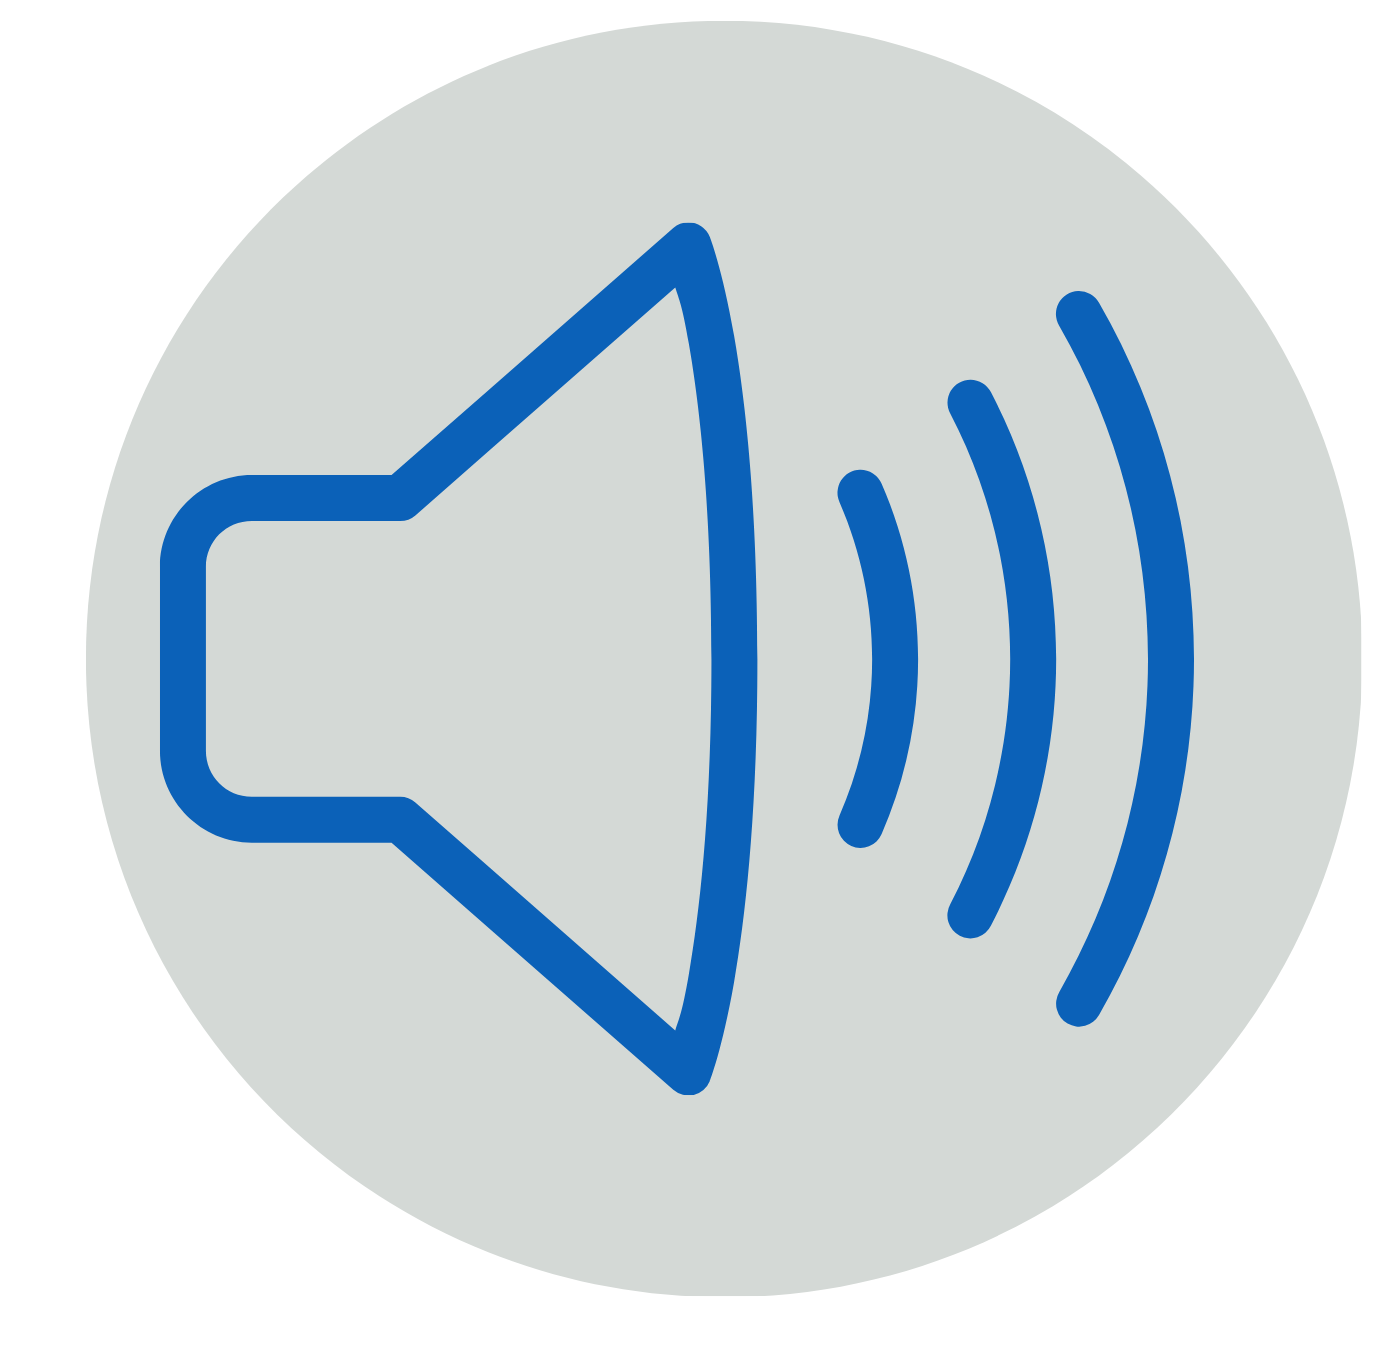
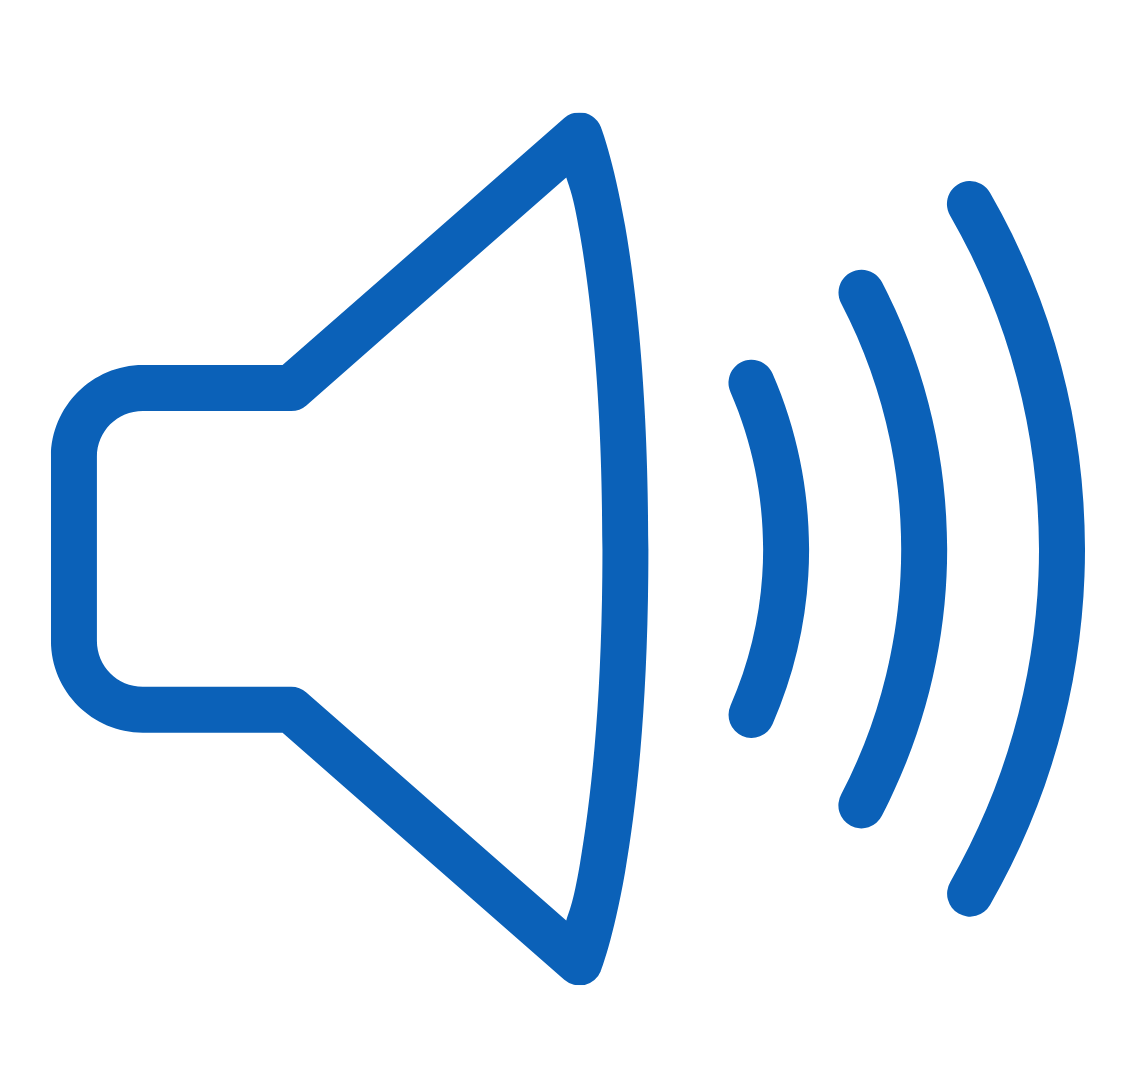
fixed scrolling, colours, adding name

diff --git a/style.css b/style.css
@@ -5,11 +5,12 @@
 
 html {
     height: 100%;
+    scroll-behavior: smooth;
 
 }
 
 body {
-    background-color: #b14a3a;
+    background-color: #feedcd;
     font-family: Arial, sans-serif;
      min-height: 100%;
          margin: 0;
@@ -367,7 +368,7 @@ position: absolute;
     bottom: 100%; 
     left: 50%;
     transform: translateX(-50%);
-    background-color: #f0efed;
+    background-color: #d4d9d6;
     min-width: 140px;
     z-index: 9999;
     padding: 10px 0;

diff --git a/index.html b/index.html
@@ -95,7 +95,7 @@ My name is Anne and this is my portfolio for the subject Classroom Technologies 
 
       <footer class="footer">
     <div class="footer-content">
-        <p>ESC515</p>
+        <p>ESC515<br>Anne Gerstenberger, 1179099A</p>
         <nav>
             <ul class="footer-nav">
                 <!-- Dropup 1 -->
